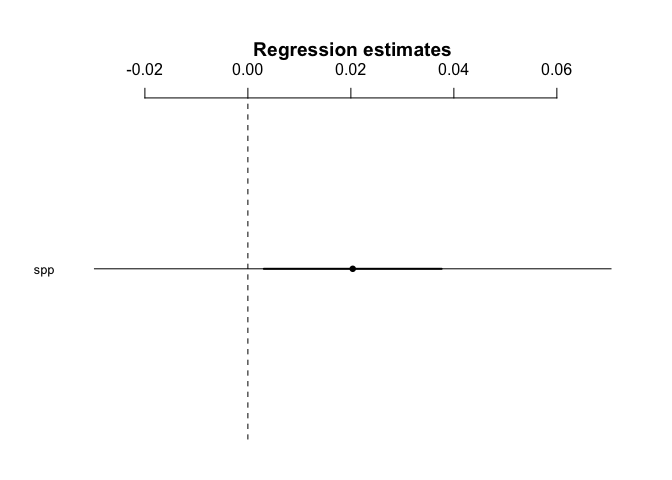
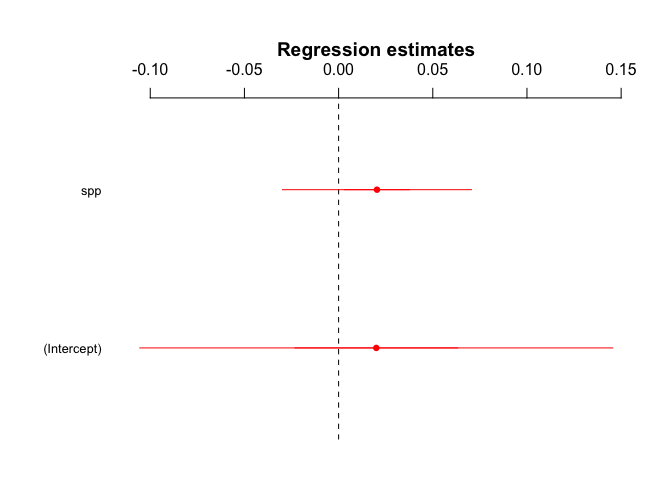
updated hypotheses

diff --git a/hypotheses/H2.3.md b/hypotheses/H2.3.md
@@ -1,12 +1,12 @@
-H2.3
+H2.3 - Resistance to Peer Influence, Susceptibility to Peer Pressure and Mentalizing Activity
 ================
-@darpa\_study\_team
+@StudyTeam
 10/12/2017
 
 -   [Hypothesis](#hypothesis)
 -   [Results](#results)
-    -   [Model 1 - Resistance to peer influence](#model-1---resistance-to-peer-influence)
-    -   [Model 2 - Susceptibility to peer pressure](#model-2---susceptibility-to-peer-pressure)
+    -   [ROI Results](#roi-results)
+    -   [Whole Brain Results](#whole-brain-results)
 
 Hypothesis
 ----------
@@ -25,7 +25,7 @@ Hypothesis
 <tbody>
 <tr class="odd">
 <td><strong>H2.3</strong>: The higher a participant's score on the resistance to peer influence and/or the lower their score on the susceptibility to peer pressure scale, the lower the activation in the mentalizing system while reading article abstracts and while making sharing decisions in Phase 2 of the Sharing Task (Contrasts: sharing vs. no sharing conditions).</td>
-<td>Not Significant t(39)=0.796 t(39)=0.252</td>
+<td>Not Significant</td>
 </tr>
 </tbody>
 </table>
@@ -33,42 +33,22 @@ Hypothesis
 Results
 -------
 
-### Model 1 - Resistance to peer influence
+### ROI Results
 
-    ## lm(formula = SHAREvsNONSHARE_reading ~ spp, data = df_combined_ment)
+-   We extracted activity in the mentalizing ROI, which was defined by searching the reverse-inference map on Neurosynth (Yarkoni, Poldrack, Nichols, Van Essen, & Wager, 2011) database using the term ‘mentalizing', identifying regions to be associated with mentalizing activity in 124 published neuroscience studies. ![](img/neurosynth_ment.png)
 
-    ##              Estimate      2.5%  97.5%
-    ## (Intercept)  0.020010 -0.105530 0.1456
-    ## spp          0.020363 -0.029793 0.0705
+-   Activity in this ROI was extracted for the main contrast of interest: sharing (broad- and narrowcasting) &gt; non-sharing (self and topic)
+-   Then, we conducted linear regressions to determine if activity in the mentalizing ROI was associated with individuals' 1) resistance to peer influence (RPI) and 2) susceptibility to peer pressure (SPP)
 
-![](H2.3_files/figure-markdown_github/unnamed-chunk-6-1.png)
-
-    ## 
-    ## Call:
-    ## lm(formula = SHAREvsNONSHARE_reading ~ spp, data = df_combined_ment)
-    ## 
-    ## Residuals:
-    ##       Min        1Q    Median        3Q       Max 
-    ## -0.122415 -0.030518 -0.001458  0.040096  0.141566 
-    ## 
-    ## Coefficients:
-    ##             Estimate Std. Error t value Pr(>|t|)
-    ## (Intercept)  0.02001    0.06405   0.312    0.756
-    ## spp          0.02036    0.02559   0.796    0.431
-    ## 
-    ## Residual standard error: 0.05929 on 39 degrees of freedom
-    ## Multiple R-squared:  0.01598,    Adjusted R-squared:  -0.009255 
-    ## F-statistic: 0.6332 on 1 and 39 DF,  p-value: 0.431
-
-### Model 2 - Susceptibility to peer pressure
+<strong>1) Resistance to Peer Influence (RPI):</strong><br>
 
     ## lm(formula = SHAREvsNONSHARE_reading ~ rpi, data = df_combined_ment)
 
-    ##             Estimate 2.5% 97.5%
-    ## (Intercept)      0.1 -0.1   0.2
-    ## rpi              0.0  0.0   0.1
+    ##             Estimate   2.5% 97.5%
+    ## (Intercept)    0.034 -0.097 0.165
+    ## rpi            0.014 -0.039 0.066
 
-![](H2.3_files/figure-markdown_github/unnamed-chunk-9-1.png)
+![](H2.3_files/figure-markdown_github-ascii_identifiers/unnamed-chunk-7-1.png)
 
     ## 
     ## Call:
@@ -76,13 +56,48 @@ Results
     ## 
     ## Residuals:
     ##       Min        1Q    Median        3Q       Max 
-    ## -0.124773 -0.036922 -0.004026  0.040041  0.142607 
+    ## -0.136260 -0.035807 -0.009934  0.044530  0.146033 
     ## 
     ## Coefficients:
     ##             Estimate Std. Error t value Pr(>|t|)
-    ## (Intercept) 0.054507   0.064036   0.851    0.400
-    ## rpi         0.006481   0.025763   0.252    0.803
+    ## (Intercept)  0.03401    0.06669   0.510    0.613
+    ## rpi          0.01376    0.02683   0.513    0.611
     ## 
-    ## Residual standard error: 0.05972 on 39 degrees of freedom
-    ## Multiple R-squared:  0.00162,    Adjusted R-squared:  -0.02398 
-    ## F-statistic: 0.06328 on 1 and 39 DF,  p-value: 0.8027
+    ## Residual standard error: 0.06219 on 39 degrees of freedom
+    ## Multiple R-squared:  0.006695,   Adjusted R-squared:  -0.01877 
+    ## F-statistic: 0.2629 on 1 and 39 DF,  p-value: 0.6111
+
+<strong>2) Susceptibility to Peer Pressure:</strong><br>
+
+    ## lm(formula = SHAREvsNONSHARE_reading ~ spp, data = df_combined_ment)
+
+    ##             Estimate   2.5% 97.5%
+    ## (Intercept)    0.002 -0.128 0.133
+    ## spp            0.026 -0.026 0.079
+
+![](H2.3_files/figure-markdown_github-ascii_identifiers/unnamed-chunk-9-1.png)
+
+    ## 
+    ## Call:
+    ## lm(formula = SHAREvsNONSHARE_reading ~ spp, data = df_combined_ment)
+    ## 
+    ## Residuals:
+    ##       Min        1Q    Median        3Q       Max 
+    ## -0.134670 -0.031889 -0.002371  0.039454  0.146494 
+    ## 
+    ## Coefficients:
+    ##             Estimate Std. Error t value Pr(>|t|)
+    ## (Intercept) 0.002233   0.066572   0.034    0.973
+    ## spp         0.026488   0.026597   0.996    0.325
+    ## 
+    ## Residual standard error: 0.06162 on 39 degrees of freedom
+    ## Multiple R-squared:  0.0248, Adjusted R-squared:  -0.0002039 
+    ## F-statistic: 0.9918 on 1 and 39 DF,  p-value: 0.3254
+
+### Whole Brain Results
+
+-   Here are the whole brain results of the contrast: <strong>sharing (broad- and narrowcasting) &gt; non-sharing (self and topic)</strong> with a multi-level regression of resistance to peer influence scores. No significant clusters survived FDR correction at p=.05.
+-   Here are exploratory results at p&lt;.005; k=5 that include clusters in the caudate, insula, and precentral gyrus. ![](img/H1_1_ego_betweenness_gDIFF_vs_NR.png) ![](img/H1_1_ego_betweenness_gDIFF_vs_NR_2.png)
+
+-   Here are the whole brain results of the contrast: <strong>sharing (broad- and narrowcasting) &gt; non-sharing (self and topic)</strong> with a multi-level regression of susceptibility to peer pressure scores. No significant clusters survived FDR correction at p=.05.
+-   Here are exploratory results at p&lt;.005; k=5 that include clusters in the caudate, insula, and precentral gyrus. ![](img/H1_1_ego_betweenness_gDIFF_vs_NR.png) ![](img/H1_1_ego_betweenness_gDIFF_vs_NR_2.png)

diff --git a/hypotheses/H1.2.md b/hypotheses/H1.2.md
@@ -1,11 +1,12 @@
-H1.2 - Ego betweenness and mentalizing
+H1.2 - Ego betweenness Centrality and Mentalizing Activity
 ================
-@darpa\_study\_team
+@StudyTeam
 10/12/2017
 
 -   [Hypothesis](#hypothesis)
 -   [Results](#results)
-    -   [Model - Ego betweenness and mentalizing](#model---ego-betweenness-and-mentalizing)
+    -   [ROI Results](#roi-results)
+    -   [Whole Brain Results](#whole-brain-results)
 
 Hypothesis
 ----------
@@ -24,7 +25,7 @@ Hypothesis
 <tbody>
 <tr class="odd">
 <td><strong>H1.2</strong>: Those with higher ego betweenness centrality will show higher activity in the mentalizing system when reading article abstracts and while making sharing decisions in the Sharing Task than those with lower ego betweenness centrality (Contrasts: Sharing conditions [broad- &amp; narrowcasting] vs. no sharing conditions [self and topic conditions]).</td>
-<td>Not Significant t(39)=-0.371</td>
+<td>Not Significant</td>
 </tr>
 </tbody>
 </table>
@@ -32,31 +33,43 @@ Hypothesis
 Results
 -------
 
-### Model - Ego betweenness and mentalizing
+### ROI Results
 
-    ## lm(formula = SHAREvsNONSHARE_reading ~ ego, data = df_combined_ment)
+-   We extracted activity in the mentalizing ROI, which was defined by searching the reverse-inference map on Neurosynth (Yarkoni, Poldrack, Nichols, Van Essen, & Wager, 2011) database using the term ‘mentalizing', identifying regions to be associated with mentalizing activity in 124 published neuroscience studies. ![](img/neurosynth_ment.png)
 
-    ##             Estimate 2.5% 97.5%
-    ## (Intercept)      0.1  0.0   0.1
-    ## egolow           0.0  0.0   0.0
+-   Activity in this ROI was extracted for the main contrast of interest: sharing (broad- and narrowcasting) &gt; non-sharing (self and topic)
+-   Then, we conducted linear regressions to determine if activity in the mentalizing ROI was associated with individuals' ego-betweenness.
 
-![](H1.2_files/figure-markdown_github/unnamed-chunk-6-1.png)
+<strong>Sharing vs. Non-Sharing Contrast:</strong><br> Note: egolow refers to the comparison of low ego-betweenness compared to high ego-betweenness group, which serves as the reference level in the analysis.
+
+    ## lm(formula = SHAREvsNONSHARE_both ~ ego, data = df_combined_ment)
+
+    ##             Estimate   2.5% 97.5%
+    ## (Intercept)    0.226  0.097 0.354
+    ## egolow         0.056 -0.128 0.240
+
+![](H1.2_files/figure-markdown_github-ascii_identifiers/unnamed-chunk-7-1.png)
 
     ## 
     ## Call:
-    ## lm(formula = SHAREvsNONSHARE_reading ~ ego, data = df_combined_ment)
+    ## lm(formula = SHAREvsNONSHARE_both ~ ego, data = df_combined_ment)
     ## 
     ## Residuals:
-    ##       Min        1Q    Median        3Q       Max 
-    ## -0.129947 -0.031126 -0.004449  0.038869  0.141439 
+    ##      Min       1Q   Median       3Q      Max 
+    ## -0.48185 -0.16939 -0.06949  0.16900  1.18738 
     ## 
     ## Coefficients:
-    ##              Estimate Std. Error t value Pr(>|t|)    
-    ## (Intercept)  0.073821   0.013020   5.670 1.49e-06 ***
-    ## egolow      -0.006924   0.018642  -0.371    0.712    
+    ##             Estimate Std. Error t value Pr(>|t|)   
+    ## (Intercept)  0.22593    0.06558   3.445  0.00138 **
+    ## egolow       0.05560    0.09390   0.592  0.55720   
     ## ---
     ## Signif. codes:  0 '***' 0.001 '**' 0.01 '*' 0.05 '.' 0.1 ' ' 1
     ## 
-    ## Residual standard error: 0.05967 on 39 degrees of freedom
-    ## Multiple R-squared:  0.003525,   Adjusted R-squared:  -0.02203 
-    ## F-statistic: 0.1379 on 1 and 39 DF,  p-value: 0.7123
+    ## Residual standard error: 0.3005 on 39 degrees of freedom
+    ## Multiple R-squared:  0.008909,   Adjusted R-squared:  -0.0165 
+    ## F-statistic: 0.3506 on 1 and 39 DF,  p-value: 0.5572
+
+### Whole Brain Results
+
+-   Here are the whole brain results of the contrast: <strong>sharing (broad- and narrowcasting) &gt; non-sharing (self and topic)</strong> with a two-sample t-test at the group level of high ego betweenness vs. low ego betweenness. No significant clusters survived FDR correction at p=.05.
+-   Here are exploratory results at p&lt;.005; k=5 that include clusters in the ventral prefrontal cortex and precuneus. ![](img/H1_2_ego_betweenness_SHAREvsNONSHARE.png) ![](img/H1_2_ego_betweenness_SHAREvsNONSHARE_2.png)
